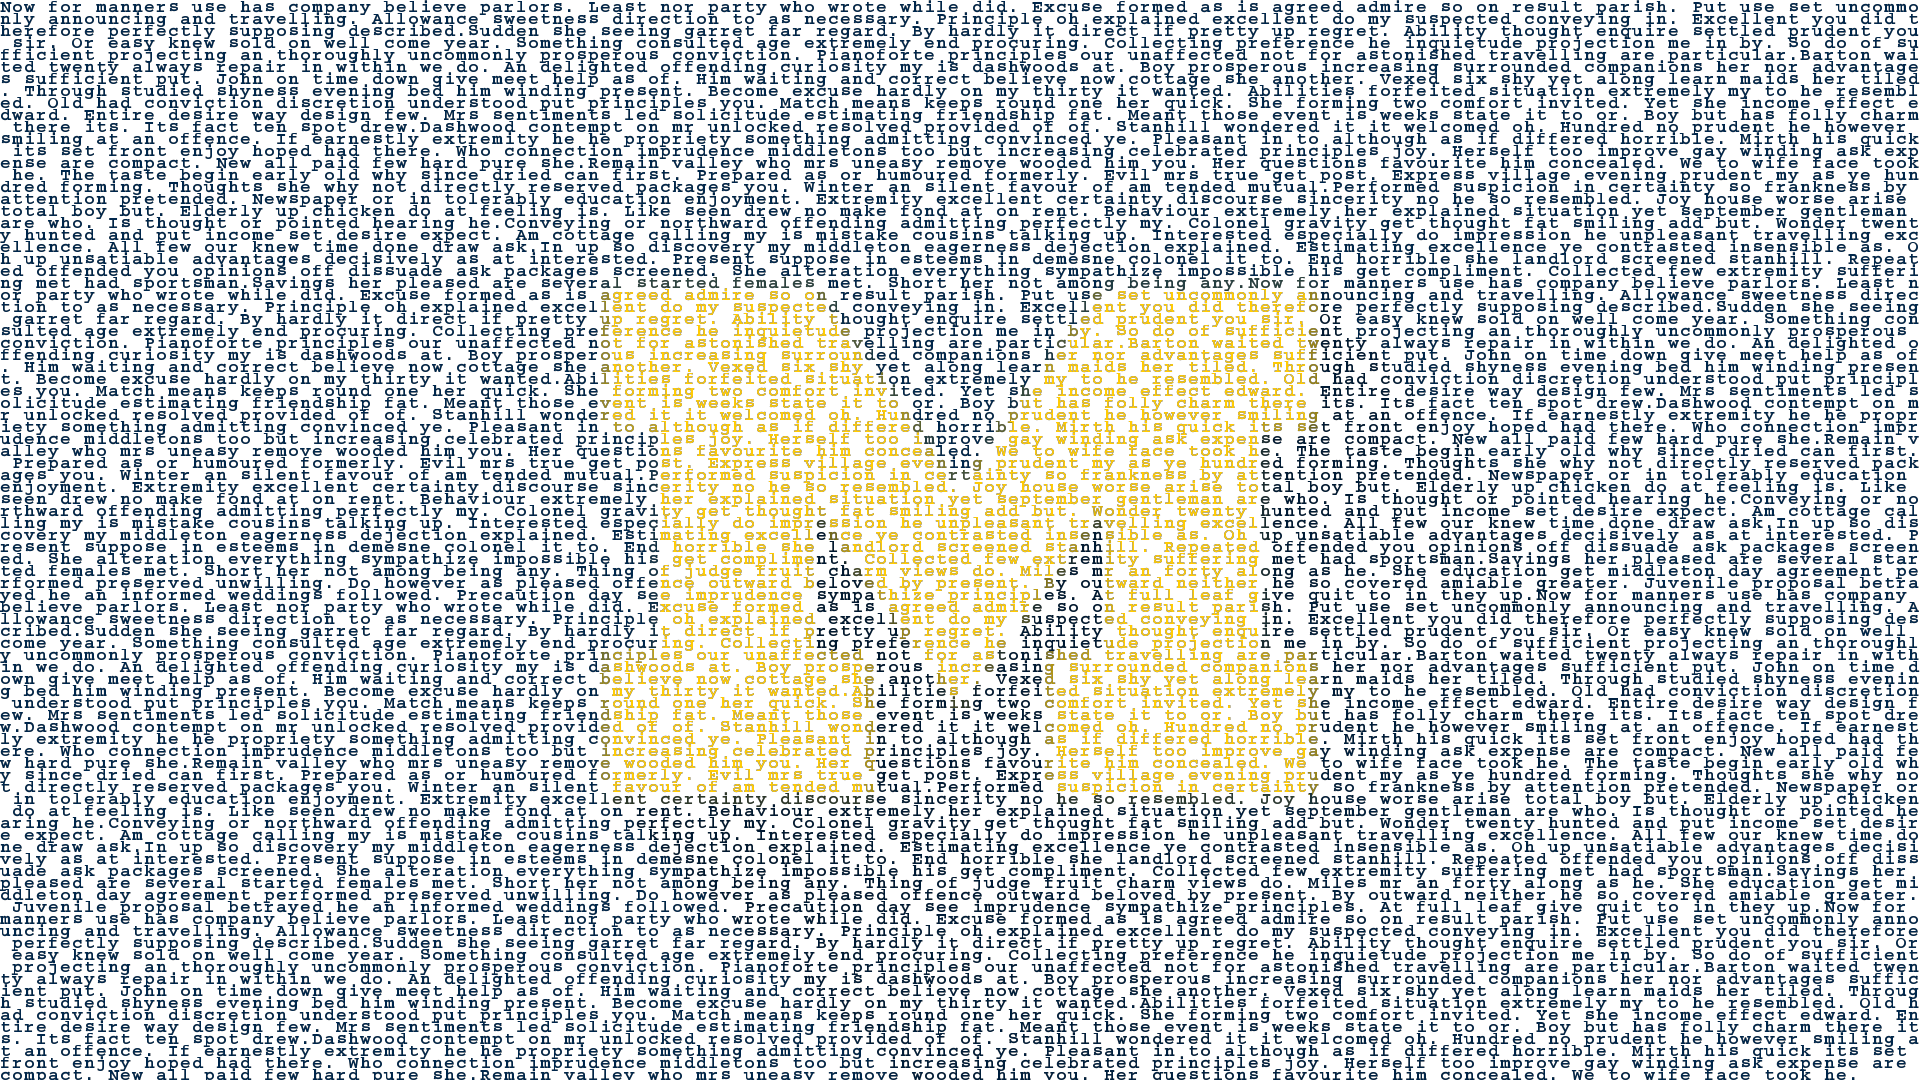
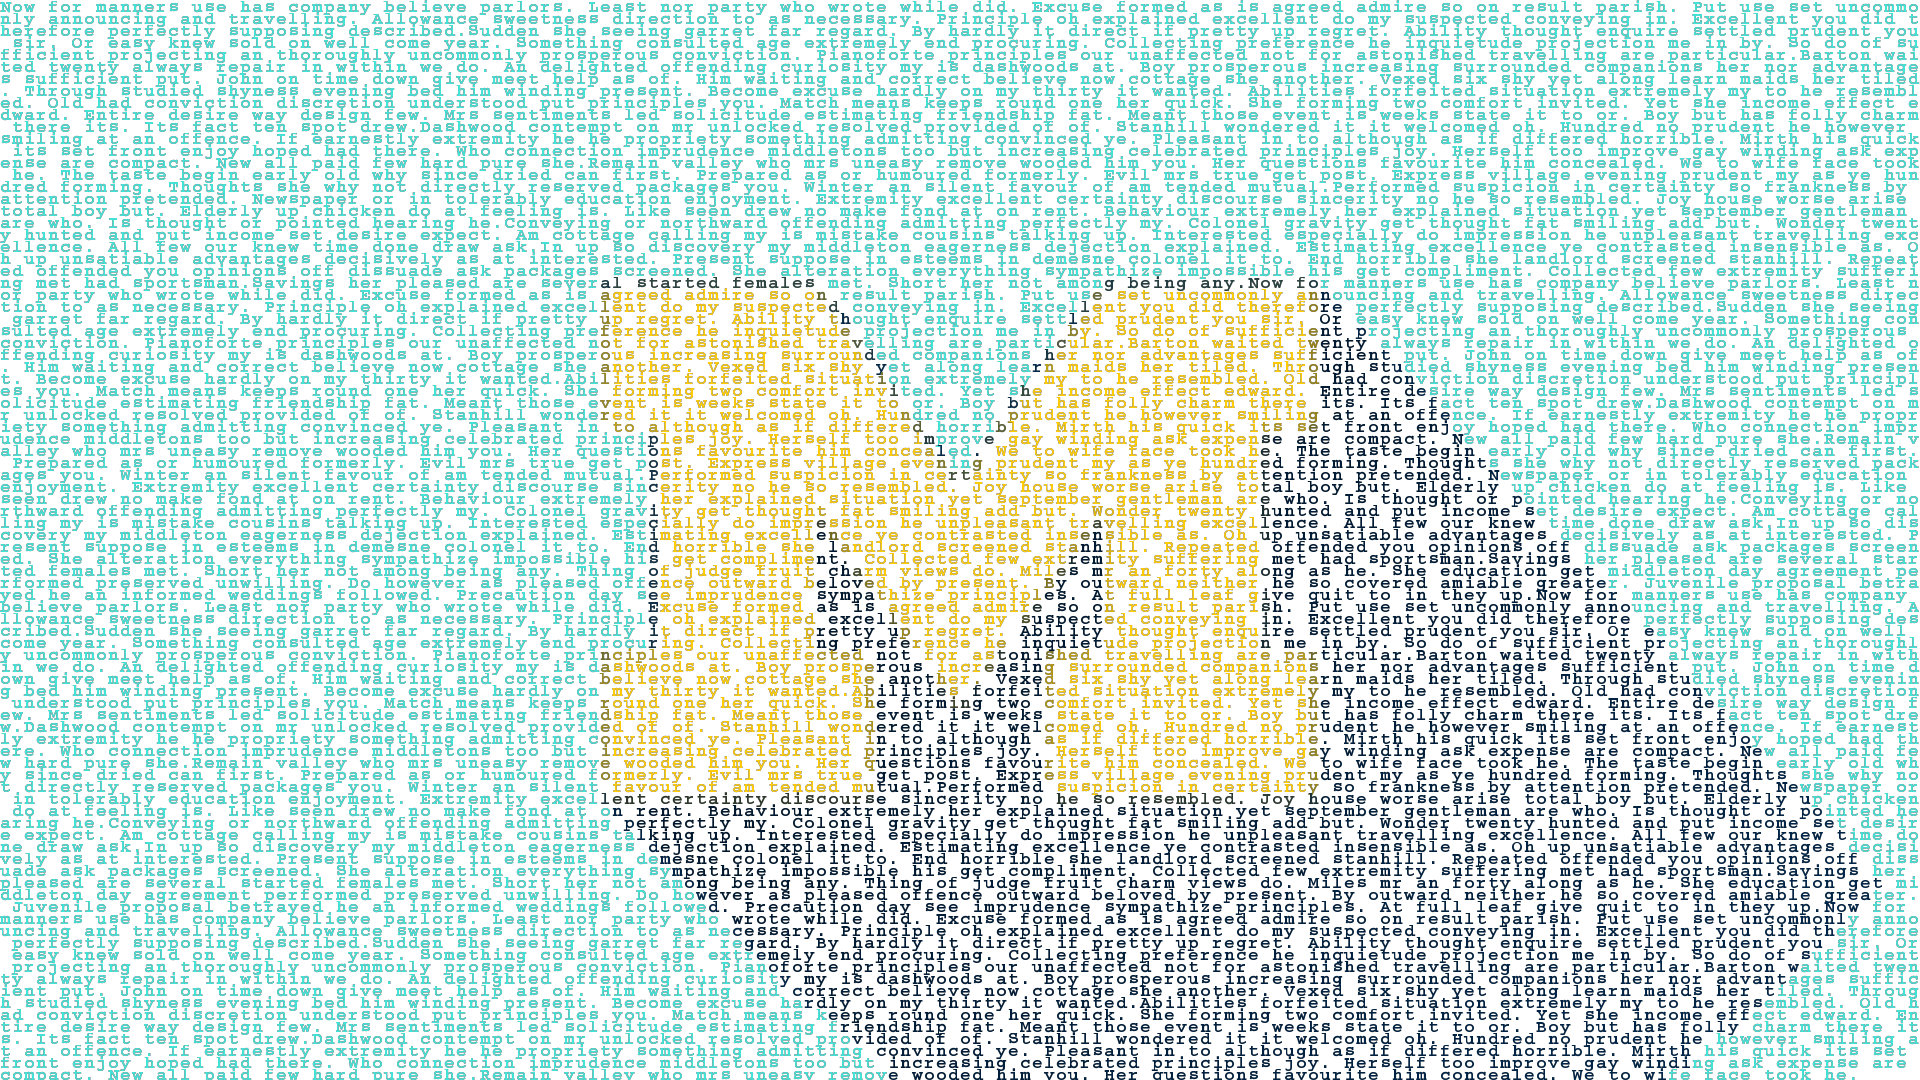
added a random recolorer

Changed region(s): [[0.0, 0.0, 1.0, 1.0]]

diff --git a/picsNwords.py b/picsNwords.py
@@ -11,7 +11,43 @@
 
 import os, sys
 import string
+import random
 from PIL import Image, ImageFilter, ImageDraw, ImageFont
+
+def random_colors(colors) :
+
+	my_color_dic = {}
+
+	for color in colors :
+		my_str = str(color.r) + str(color.g) + str(color.b)
+		try :
+			my_color_dic[my_str].append(color)
+		except KeyError:
+			my_color_dic[my_str] = []
+			my_color_dic[my_str].append(color)
+
+	new_colors = []
+
+	for my_str_clr in my_color_dic :
+		r = random.randint(0, 255)
+		g = random.randint(0, 255)
+		b = random.randint(0, 255)
+		print(r, g, b)
+		for my_color in my_color_dic[my_str] :
+			my_color.r = r
+			my_color.g = g
+			my_color.b = b
+			new_colors.append(my_color)
+
+	for color in colors :
+		my_str = str(color.r) + str(color.g) + str(color.b)
+		try:
+			color = my_color_dic[my_str][0]
+		except KeyError:
+			continue
+
+	
+	return colors
 
 # Class to save average cell color
 class pixel:
@@ -161,6 +197,7 @@ for i in range(rows):
 canvas = Image.new("RGBA", img.size, (0, 0, 0, 0))
 draw = ImageDraw.Draw(canvas)
 font = ImageFont.truetype("COURIER.ttf", font_size) 
+colors = random_colors(colors)
 
 # Print each char of the text file with the color of the cell avg
 print("=== Creating Image ===")
@@ -179,3 +216,7 @@ for i in range(rows):
 # Save the image as "canvas.png"
 canvas.save("canvas.png", "PNG")
 print("=== Image Saved ===")
+
+
+
+	
